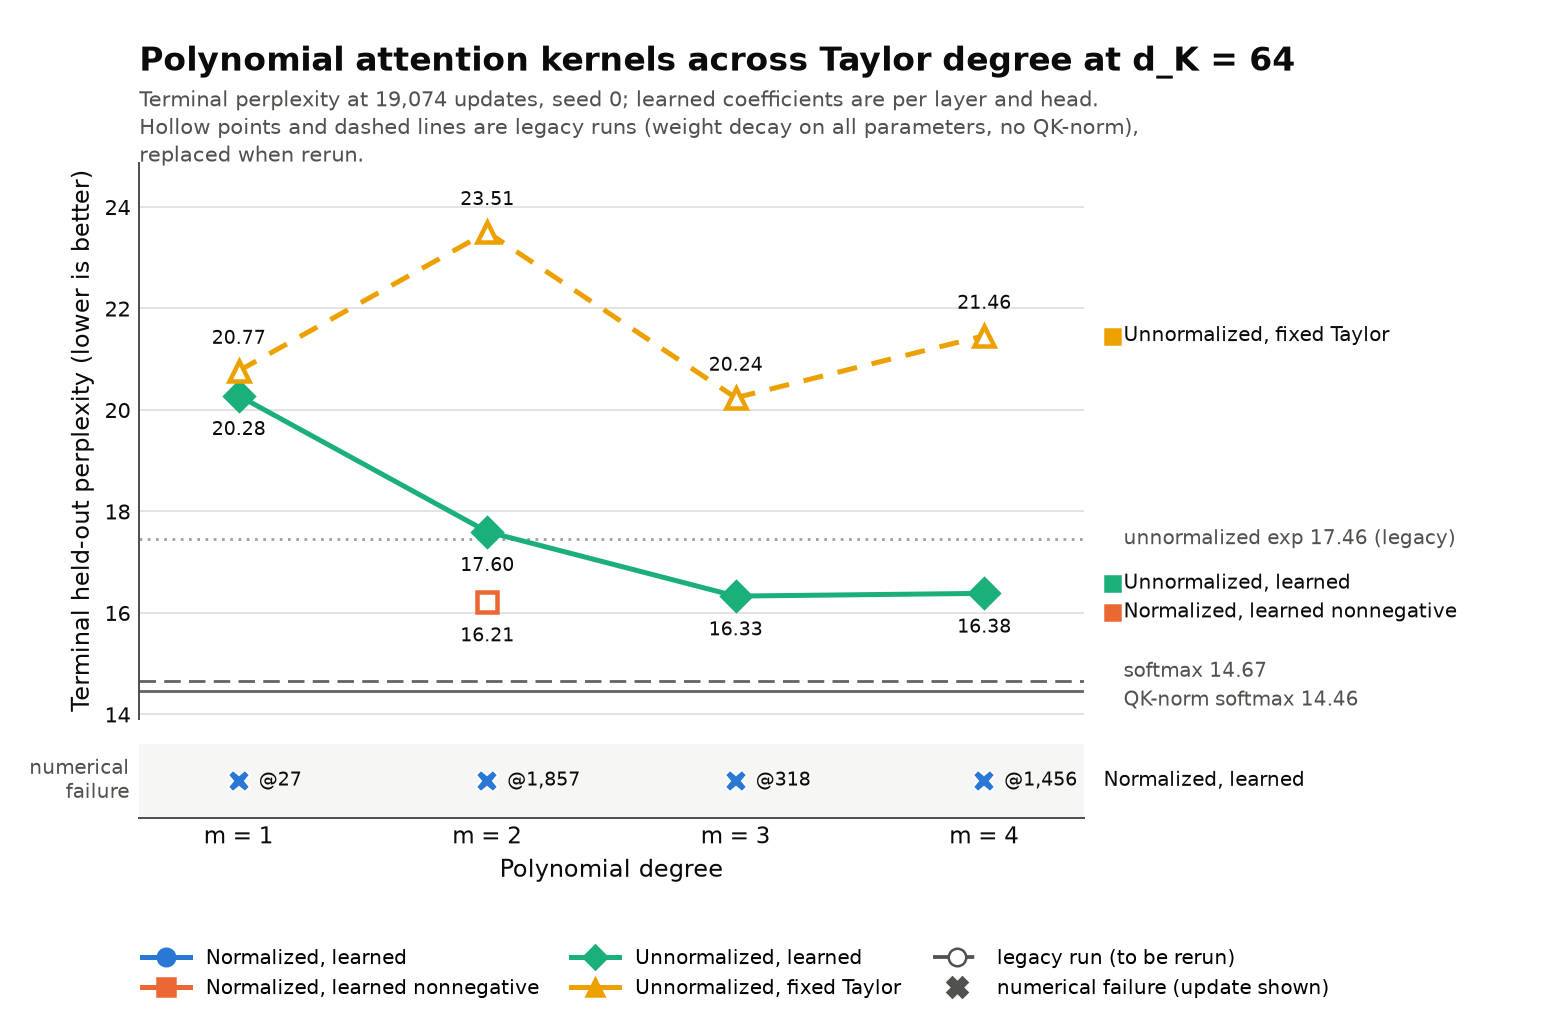
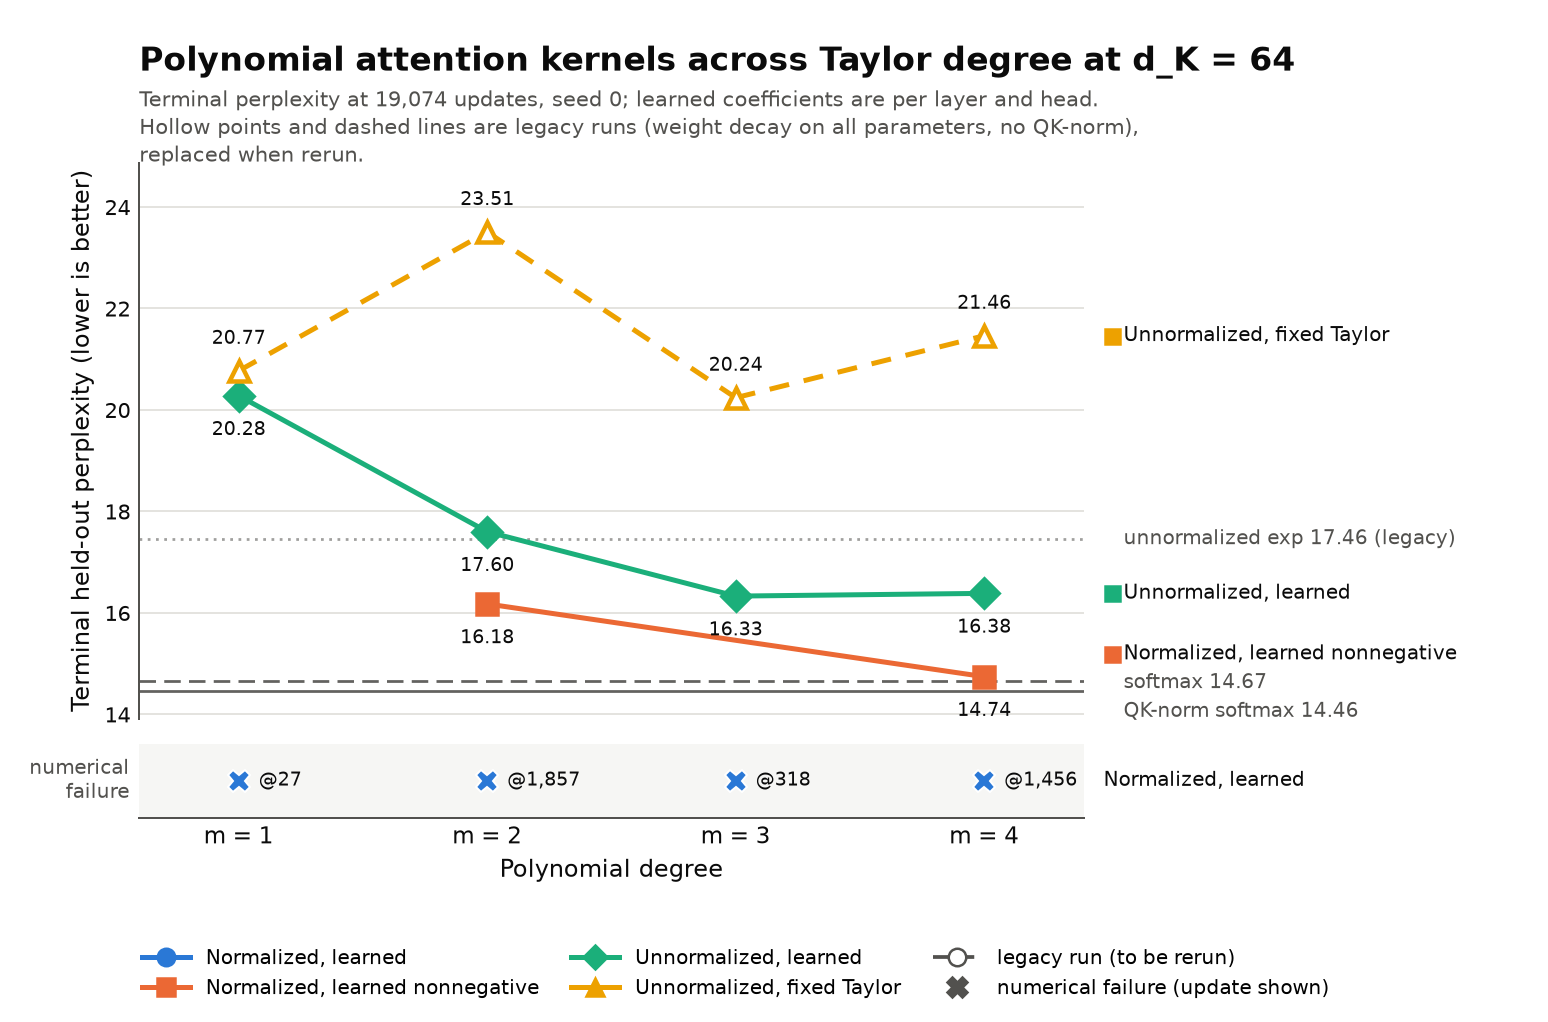
Show the nonnegative learned Taylor runs in the degree chart
The chart's nonnegative family now reads the sum-of-squares runs under the
current defaults (m=2 16.1758, m=4 14.7419) instead of the legacy per-head
positive quadratic; learned_quadratic_attention leaves the chart's pinned
manifests. The README describes the family as the sum of squares, lists the
twelve current-default runs, and notes that only the heatmap's legacy fixed
normalized Taylor m=8 and m=16 at d_K=64 are lower. The tests follow the new
snapshot, and the wrong-family check pins the quadratic manifest itself.

diff --git a/experiments/attention_scaling_comparison/adapter/tests/test_plot.py b/experiments/attention_scaling_comparison/adapter/tests/test_plot.py
@@ -44,15 +44,14 @@ def test_combined_figures_are_source_checked_and_byte_reproducible(tmp_path):
     chart = {(row["panel"], row["column"]): row for row in csv_rows if row["figure"] == "degree_chart"}
     assert float(chart["unnormalized_learned", "m3"]["terminal_ppl"]) == pytest.approx(16.330106671324174)
     assert chart["normalized_learned_taylor", "m2"]["failure_step"] == "1857"
-    assert chart["normalized_nonnegative", "m2"]["legacy"] == "true"
-    assert chart["normalized_nonnegative", "m4"]["status"] == "not_run"
+    assert chart["normalized_nonnegative", "m2"]["legacy"] == "false"
+    assert float(chart["normalized_nonnegative", "m4"]["terminal_ppl"]) == pytest.approx(14.741921579480255)
     assert all(row["terminal_ppl"] == "" for row in csv_rows if row["status"] == "numerical_failure")
     provenance = json.loads((output / "provenance" / "manifest.json").read_text())
     assert len(provenance["source_manifests"]) == 8
-    assert Counter(row["figure"] for row in provenance["source_runs"]) == {"heatmap": 33, "degree_chart": 16}
+    assert Counter(row["figure"] for row in provenance["source_runs"]) == {"heatmap": 33, "degree_chart": 17}
     assert provenance["status_counts"]["heatmap"]["legacy"] == 31
-    assert provenance["status_counts"]["degree_chart"] == {"complete": 12, "legacy": 6, "not_run": 1,
-                                                          "numerical_failure": 4}
+    assert provenance["status_counts"]["degree_chart"] == {"complete": 13, "legacy": 5, "numerical_failure": 4}
     for name in ("combined_terminal_ppl", "degree_chart"):
         assert (output / "figures" / f"{name}.pdf").stat().st_size > 1000
     first = hashes(output)

diff --git a/experiments/attention_scaling_comparison/adapter/tests/test_collect.py b/experiments/attention_scaling_comparison/adapter/tests/test_collect.py
@@ -219,11 +219,15 @@ def test_committed_comparison_sources() -> None:
                               ("normalized_learned_taylor", "m3"): 318, ("normalized_learned_taylor", "m4"): 1456}
     legacy = {(row["panel"], row["column"]) for row in chart_rows if row["legacy"]}
     assert legacy == {*(("unnormalized_fixed", f"m{d}") for d in (1, 2, 3, 4)),
-                      ("normalized_nonnegative", "m2"), ("references", "unnormalized_exp")}
+                      ("references", "unnormalized_exp")}
 
     wrong_family = json.loads(json.dumps(chart))
-    next(cell for cell in wrong_family["cells"] if cell["panel"] == "normalized_nonnegative")["run"] = (
-        "200m-positive-global-seed0")
+    quadratic = "experiments/learned_quadratic_attention/provenance/manifest.json"
+    wrong_family["source_manifests"]["learned_quadratic_attention"] = {
+        "path": quadratic, "sha256": hashlib.sha256((root / quadratic).read_bytes()).hexdigest()}
+    wrong_family.pop("source_artifact_set_sha256")
+    cell = next(cell for cell in wrong_family["cells"] if cell["panel"] == "normalized_nonnegative")
+    cell.update(experiment="learned_quadratic_attention", run="200m-positive-global-seed0")
     with pytest.raises(ValueError, match="quadratic sharing"):
         collect_rows(root, wrong_family)
 

diff --git a/experiments/attention_scaling_comparison/README.md b/experiments/attention_scaling_comparison/README.md
@@ -55,7 +55,7 @@ Every learned family learns its coefficients per layer and head.
 | Family | Degrees | Meaning |
 | --- | --- | --- |
 | Normalized, learned | 1–4 | All `m + 1` coefficients learned from `1/r!`; signed kernel and row sum |
-| Normalized, learned nonnegative | 2, 4 | Kernel constrained nonnegative: the positive quadratic `0.5 (1 + (a s + b)^2)` or the sum of squares `q1^2 + q2^2`; odd degrees cannot be nonnegative on the real line |
+| Normalized, learned nonnegative | 2, 4 | The same normalized kernel written as a sum of squares `q1^2 + q2^2`, nonnegative by construction; odd degrees cannot be nonnegative on the real line |
 | Unnormalized, learned | 1–4 | All coefficients learned from `1/r!`; no row division |
 | Unnormalized, fixed Taylor | 1–4 | Fixed coefficients `1/r!`; no row division |
 
@@ -73,7 +73,7 @@ for QK-norm at the `d_K = 64` softmax).
 
 ### Polynomial kernels at d_K = 64
 
-16 trained runs: 12 complete and 4 numerical failures; 6 are legacy runs, drawn hollow with dashed connectors. Numerical failures appear in the strip below the axis at their degree, labeled with the failing update. The nonnegative family exists only for even degrees, which are the only degrees at which a polynomial can be nonnegative on the real line.
+17 trained runs: 13 complete and 4 numerical failures; 5 are legacy runs, drawn hollow with dashed connectors. Numerical failures appear in the strip below the axis at their degree, labeled with the failing update. The nonnegative family exists only for even degrees, which are the only degrees at which a polynomial can be nonnegative on the real line.
 
 ![Terminal perplexity against polynomial degree](figures/degree_chart.png)
 
@@ -98,19 +98,26 @@ The two old-policy `d_K = 64` softmax runs retired on 2026-09-26 ended at PPL 14
 
 ## Findings
 
-Under the current defaults, ten runs exist so far, all at `d_K = 64`: the two
-softmax references (QK-norm 14.4574, plain 14.6655); the learned unnormalized
-Taylor kernels at m = 1–4 (20.279, 17.599, 16.330, 16.384, from the
-[QK-norm learned Taylor sweep](../qk_norm_learned_taylor/README.md)), each better
-than the legacy fixed unnormalized kernel of the same degree, with degrees 3 and 4
-within 0.05 of each other; and the four normalized learned kernels, which all
-failed numerically (updates 27, 1,857, 318, and 1,456) once a kernel turned negative
-inside the bounded score range and a row sum crossed zero. The
-[nonnegative learned Taylor runs](../nonnegative_learned_taylor/README.md) at m = 2
-and 4 test whether constraining the kernel to be nonnegative removes that failure;
-until they conclude, the nonnegative family shows only the legacy positive quadratic
-(16.2125). Every other plotted value is a legacy run, so the comparisons below among
-them share one training setup.
+Under the current defaults, twelve runs exist so far, all at `d_K = 64`:
+
+- **Softmax references:** QK-norm 14.4574, plain 14.6655.
+- **Unnormalized learned Taylor kernels, m = 1–4:** 20.279, 17.599, 16.330, 16.384,
+  from the [QK-norm learned Taylor sweep](../qk_norm_learned_taylor/README.md). Each
+  is better than the legacy fixed unnormalized kernel of the same degree, and
+  degrees 3 and 4 are within 0.05 of each other.
+- **Normalized learned kernels, m = 1–4:** all failed numerically (updates 27, 1,857,
+  318, and 1,456) once a kernel turned negative inside the bounded score range and a
+  row sum crossed zero.
+- **Nonnegative learned kernels, m = 2 and 4:** the
+  [same normalized kernels written as a sum of squares](../nonnegative_learned_taylor/README.md)
+  trained without failure, reaching 16.176 and 14.742. The `m = 4` result is 0.28
+  above QK-norm softmax and the lowest in the chart. At this width only the heatmap's
+  legacy fixed normalized Taylor `m = 8` and `m = 16` are lower (14.678 and 14.706).
+  Both nonnegative kernels learned a touching root inside the score range: the zero
+  the signed kernels reached only by crossing it.
+
+Every other plotted value is a legacy run, so the comparisons below among them share
+one training setup.
 
 The fixed normalized grid shows that increasing degree narrows the softmax gap. At
 `d_K=8`, fixed `m=2` has PPL 20.5775, versus 16.8479 at `m=16` and 16.7053 for
@@ -129,11 +136,17 @@ The unnormalized exponential reference at `d_K=64` finishes at 17.4583; it does 
 divide by an attention row sum and is a different baseline from softmax.
 
 The source records also include a fixed normalized `m=0` run at `d_K=64`
-(PPL 47.0653), softmax runs at `d_K=2, 4, 256`, and the globally shared learned
-quadratic variants (positive 16.1890; unrestricted, failed at update 2,324). They
-remain in their [source](../key_dimension_taylor/README.md)
-[records](../learned_quadratic_attention/README.md) but lie outside these figures:
-the heatmap's declared width and degree range, and the chart's per-head coefficients.
+(PPL 47.0653), softmax runs at `d_K=2, 4, 256`, and the learned quadratic variants:
+
+- the per-head positive quadratic `0.5 (1 + (a s + b)^2)`, 16.2125, a legacy run
+  that the sum-of-squares `m = 2` run replaced in the chart;
+- the globally shared positive quadratic, 16.1890;
+- the globally shared unrestricted quadratic, which failed at update 2,324.
+
+They remain in their [source](../key_dimension_taylor/README.md)
+[records](../learned_quadratic_attention/README.md) but lie outside these figures.
+The heatmap has a declared width and degree range, and the chart shows only per-head
+coefficients under a single parameterization per family.
 
 ## Limits and reproduction
 
